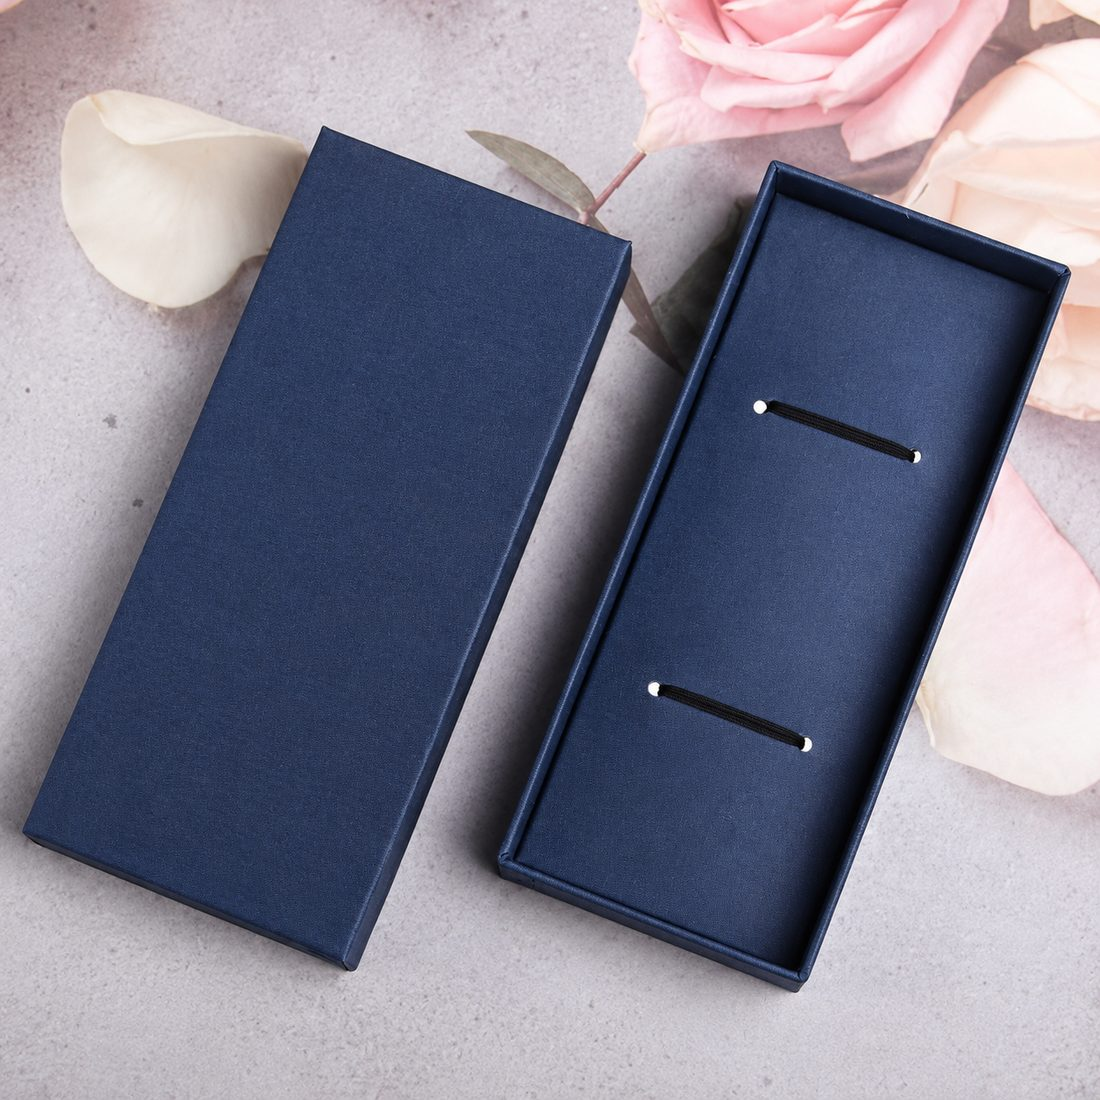
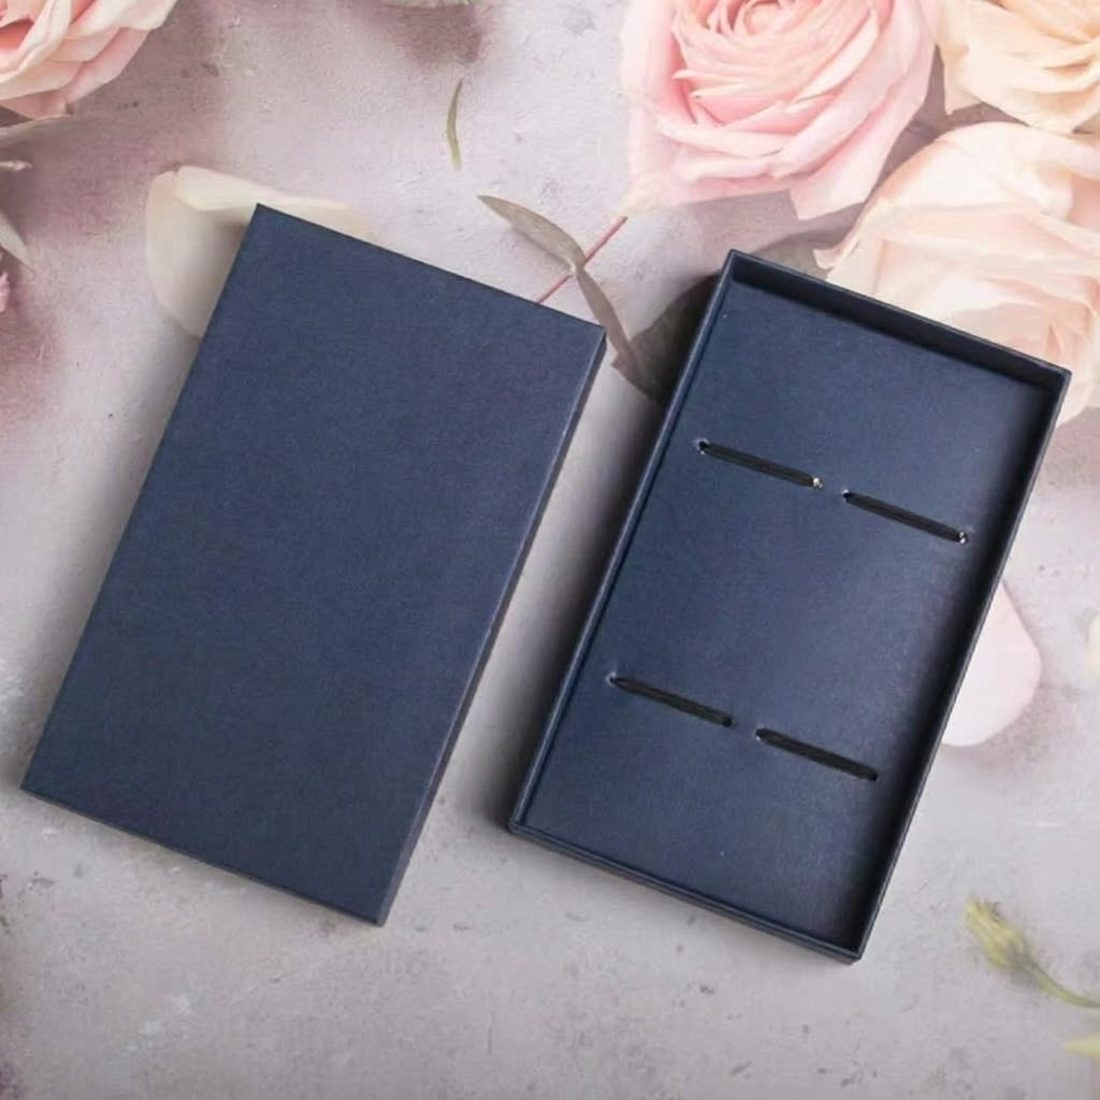
Maquettes marque-pages : bonne boîte pour 1, 2 et 4 marque-pages, vraie photo Sable
Claude-Session: https://claude.ai/code/session_013Nt78VnTBT8S9aqZe85f4z

diff --git a/tools/maquettes/marque-pages.py b/tools/maquettes/marque-pages.py
@@ -55,7 +55,7 @@ def font_face(m):
 css = re.sub(r"@font-face\{[^}]*\}", font_face, css)
 css += ":root{" + ";".join(re.findall(r"\.__variable_[0-9a-f]+\{([^}]*)\}", css)) + "}\n"
 
-PHOTOS = {f"zz-maquette-mp-{k}.jpg": k for k in ["nanmu","buis","santal","palissandre","ebene","suanzhi","groupe","ambiance","eventail","boite4","boite2"]}
+PHOTOS = {f"zz-maquette-mp-{k}.jpg": k for k in ["nanmu","buis","santal","palissandre","ebene","suanzhi","groupe","ambiance","eventail"]}
 def local_src(m):
     chemin = m.group(2)
     nom = chemin.rsplit("/", 1)[-1]
@@ -93,7 +93,7 @@ MAIN = MAIN.replace(OLD_BOX, "Une boîte cadeau bleu nuit pour un, deux ou quatr
 FORMATS = [("Seul", "avec son pompon", 1, 0), ("En boîte cadeau", "1 marque-page, boîte bleu nuit", 1, 4.9),
            ("Coffret de 2", "2 marque-pages, boîte bleu nuit", 2, 5.9), ("Coffret de 4", "4 marque-pages, boîte bleu nuit", 4, 7.9)]
 def eur(n): return f"{n:.2f}".replace(".", ",") + " €"
-BOX_IMG = {0: None, 1: "boite2", 2: "boite2", 4: "boite4"}
+BOX_IMG = {1: "boite1", 2: "boite2", 4: "boite4"}
 def fmt_card(i, t, sub, n, box):
     img = BOX_IMG[n] if box else None
     pic = f'<img class="mq-fimg" src="{uri(os.path.join(ASSETS, img + ".jpg"), 260, 72)}" alt="Boîte cadeau bleu nuit pour {n} marque-page{"s" if n > 1 else ""}"/>' if img else \
@@ -109,6 +109,12 @@ cle = '<div style="margin-bottom:6px"><p style="font-size:0.85rem;font-weight:60
 assert cle in MAIN
 cle_id = cle.replace('<div style="margin-bottom:6px">', '<div style="margin-bottom:6px" id="mq-grav">')
 MAIN = MAIN.replace(cle, FMT + RECAP + GNOTE + cle_id, 1)
+# Galerie : les 3 boîtes (1, 2 et 4 marque-pages) remplacent les 2 vignettes de boîte de la capture
+j0 = MAIN.index('<div class="gallery-thumbs">'); j1 = MAIN.index("</div>", j0)
+btns = re.findall(r"<button.*?</button>", MAIN[j0:j1], flags=re.S)
+assert len(btns) == 11, len(btns)
+BOXTH = "".join(f'<button class="" aria-label="Voir le visuel {k}"><img src="{uri(os.path.join(ASSETS, n + ".jpg"), 900, 74)}" alt=""/></button>' for k, n in ((10, "boite1"), (11, "boite2"), (12, "boite4")))
+MAIN = MAIN[:j0] + '<div class="gallery-thumbs">' + "".join(btns[:9]) + BOXTH + MAIN[j1:]
 MAIN = MAIN.replace('<button class="btn btn-gold" style="flex:1">Ajouter au panier</button>', '<button class="btn btn-gold" style="flex:1">Précommander</button>', 1)
 PRE = ('<div class="mq-pre"><b>Précommande · série limitée</b><span>Les marque-pages sont en cours d\'approvisionnement. '
        'Votre commande est enregistrée dès maintenant, puis gravée à la réception des marque-pages. Quantités limitées.</span></div>')
@@ -169,7 +175,7 @@ JS = r'''
   document.querySelector('.mq-open').addEventListener('click',ouvre);
   document.getElementById('mq-close').addEventListener('click',ferme);document.getElementById('mq-ok').addEventListener('click',ferme);
   fm.forEach(function(b){b.addEventListener('click',function(){fm.forEach(function(x){x.classList.remove('on')});b.classList.add('on');st.n=+b.dataset.n;st.box=+b.dataset.box;reset();draw();
-    if(st.box){montre(th[st.n===4?9:10])}else{montre(th[WOODS.indexOf(st.t)])}maj()})});
+    if(st.box){montre(th[{1:9,2:10,4:11}[st.n]])}else{montre(th[WOODS.indexOf(st.t)])}maj()})});
   if(vin)vin.addEventListener('input',maj);
   if(des)des.addEventListener('change',function(){if(grid)grid.hidden=des.value!=='oui';maj()});
   [].forEach.call(document.querySelectorAll('.mq-dtile'),function(t){t.addEventListener('click',function(){[].forEach.call(document.querySelectorAll('.mq-dtile'),function(x){x.classList.remove('on')});t.classList.add('on')})});

diff --git a/tools/maquettes/marque-pages-fenetre.py b/tools/maquettes/marque-pages-fenetre.py
@@ -81,7 +81,7 @@ MAIN = MAIN.replace("Choisissez votre modèle", "Choisissez votre couleur", 1)
 FORMATS = [("Seul", "avec son cordon à perles de verre", 1, 0), ("En boîte cadeau", "1 marque-page, boîte bleu nuit", 1, 4.9),
            ("Coffret de 2", "2 marque-pages, boîte bleu nuit", 2, 5.9), ("Coffret de 4", "4 marque-pages, boîte bleu nuit", 4, 7.9)]
 def eur(n): return f"{n:.2f}".replace(".", ",") + " €"
-BOX_IMG = {1: "boite2", 2: "boite2", 4: "boite4"}
+BOX_IMG = {1: "boite1", 2: "boite2", 4: "boite4"}
 def fmt_card(i, t, sub, n, box):
     img = BOX_IMG[n] if box else None
     pic = f'<img class="mq-fimg" src="{uri(os.path.join(ASSETS, img + ".jpg"), 260, 72)}" alt="Boîte cadeau bleu nuit pour {n} marque-page{"s" if n > 1 else ""}"/>' if img else \
@@ -101,7 +101,7 @@ OLD_H = "<h3>Le coffret des quatre couleurs</h3>"
 assert OLD_H in MAIN
 i0 = MAIN.index(OLD_H); i1 = MAIN.index("</p>", i0) + 4
 MAIN = MAIN[:i0] + "<h3>Offrez-le en boîte cadeau</h3><p>Une boîte cadeau bleu nuit pour un ou deux marque-pages, une autre pour quatre : chaque marque-page tient dans son élastique. La boîte coûte 4,90 € pour un, 5,90 € pour deux, 7,90 € pour quatre.</p>" + MAIN[i1:]
-BOXTH = "".join(f'<button class="" aria-label="Voir le visuel {k}"><img src="{uri(os.path.join(ASSETS, n + ".jpg"), 900, 74)}" alt=""/></button>' for k, n in ((6, "boite4"), (7, "boite2")))
+BOXTH = "".join(f'<button class="" aria-label="Voir le visuel {k}"><img src="{uri(os.path.join(ASSETS, n + ".jpg"), 900, 74)}" alt=""/></button>' for k, n in ((6, "boite1"), (7, "boite2"), (8, "boite4")))
 MAIN = MAIN.replace('<div class="gallery-thumbs">', '<div class="gallery-thumbs">', 1)
 j0 = MAIN.index('<div class="gallery-thumbs">'); j1 = MAIN.index("</div>", j0)
 MAIN = MAIN[:j1] + BOXTH + MAIN[j1:]
@@ -164,7 +164,7 @@ JS = r'''
   document.querySelector('.mq-open').addEventListener('click',ouvre);
   document.getElementById('mq-close').addEventListener('click',ferme);document.getElementById('mq-ok').addEventListener('click',ferme);
   fm.forEach(function(b){b.addEventListener('click',function(){fm.forEach(function(x){x.classList.remove('on')});b.classList.add('on');st.n=+b.dataset.n;st.box=+b.dataset.box;reset();draw();
-    if(st.box){montre(th[st.n===4?5:6])}else{montre(th[WOODS.indexOf(st.t)])}maj()})});
+    if(st.box){montre(th[{1:5,2:6,4:7}[st.n]])}else{montre(th[WOODS.indexOf(st.t)])}maj()})});
   if(vin)vin.addEventListener('input',maj);
   sw.forEach(function(b){b.addEventListener('click',function(){sw.forEach(function(x){x.classList.remove('active');x.setAttribute('aria-pressed','false')});b.classList.add('active');b.setAttribute('aria-pressed','true');st.t=b.querySelector('.vs-title').textContent.trim();var k=sw.indexOf(b);if(th[k])montre(th[k]);var im=fm[0].querySelector('.mq-fimg');if(im)im.src=IMGS[k];
     draw();maj()})});

diff --git a/CLAUDE.md b/CLAUDE.md
@@ -3460,3 +3460,10 @@ manquant, produit sans photo, fiche détaillée manquante, produits masqués) ·
 - **Coffret** : celui des photos du fournisseur (plateau bleu-gris au liseré doré, élastiques, boîte kraft à lotus dorés) ≠ les boîtes bleu nuit du modèle 1 → à confirmer
   laquelle il utilisera. Précommande / série limitée identique au modèle 1 (aucune date, aucun fournisseur nommé).
 - **Inconnus** : dimensions, essence réelle des bois (CITES si palissandre / santal), poids, ce que donne le verso. En attente de son avis.
+
+## 📦 BOÎTES DES MARQUE-PAGES : LES ÉLASTIQUES LIENT 1, 2 OU 4 MARQUE-PAGES — CORRECTION DU 11/10/2026 (gérant : « il manque la boîte de quatre »)
+> J'avais mal lu ses 3 photos de boîtes (je n'utilisais que 2 et j'avais écarté la carrée « 8 emplacements »). **Chaque marque-page est tenu par DEUX élastiques (un en haut, un en bas)
+> → le nombre de COLONNES de fentes = le nombre de marque-pages** : boîte LONGUE à 1 colonne = **1 marque-page** · boîte à 2 colonnes (rectangle) = **2 marque-pages** ·
+> boîte CARRÉE à 4 colonnes (4 fentes en haut, 4 en bas) = **4 marque-pages**. Photos : `docs/maquettes/assets/marque-pages/boite1.jpg` (1), `boite2.jpg` (2), `boite4.jpg` (4), idem
+> dans `marque-pages-fenetre/`. Les deux maquettes utilisent maintenant la bonne boîte sur chaque carte de format et dans la galerie (3 photos de boîtes, plus 2 « 8 emplacements » : supprimée).
+> Prix 4,90 / 5,90 / 7,90 € inchangés (à valider). Modèle 2 : la vraie photo de la couleur Sable (marque-page pâle, boîtes kraft à lotus) remplace le recadrage du coffret.
